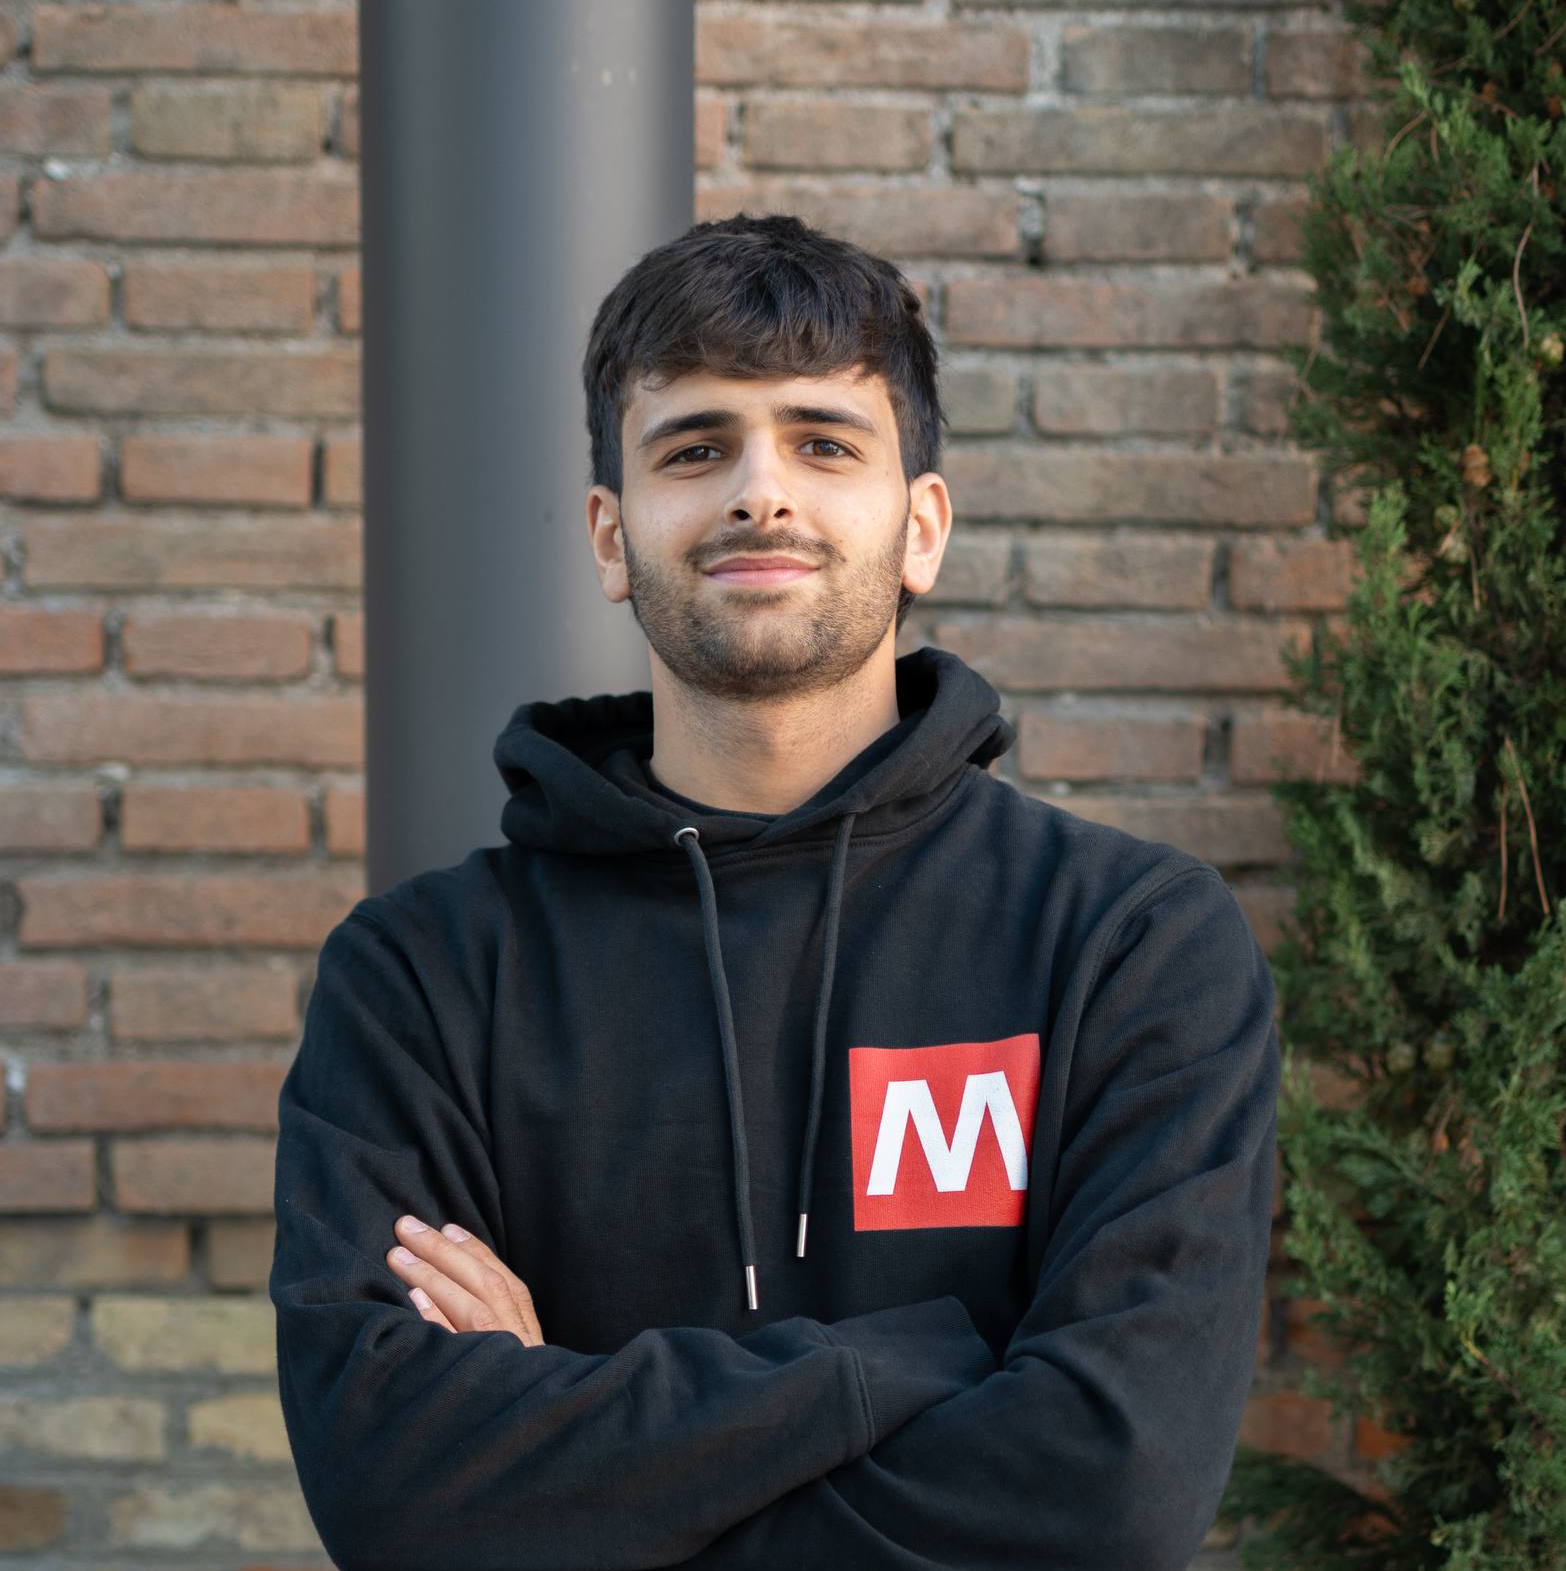
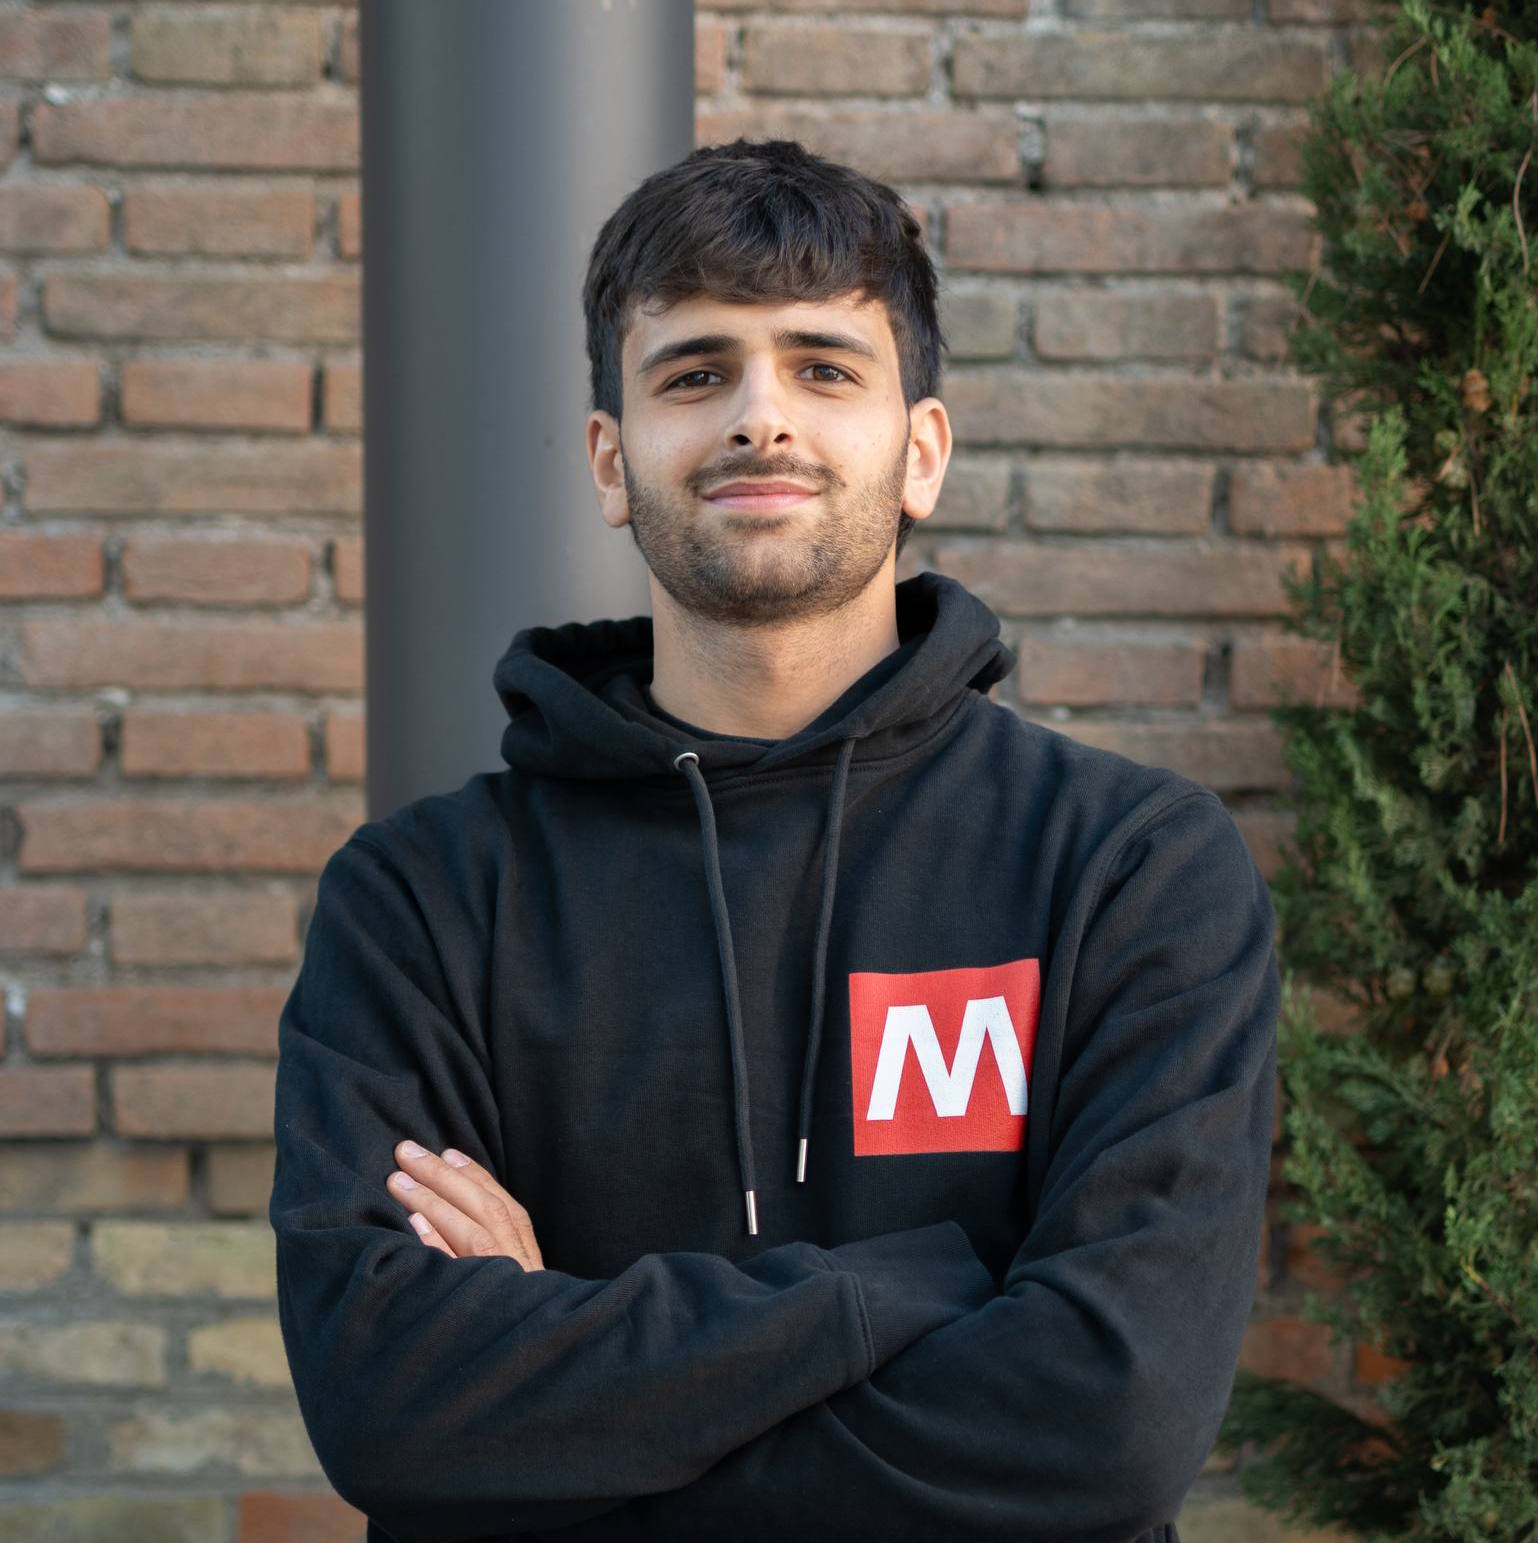
Added achievements and fixed PFPs

diff --git a/components/CompTeamAchievement.vue b/components/CompTeamAchievement.vue
@@ -1,0 +1,151 @@
+<script>
+export default {
+    props: [ "isFirst", "isLast", "achObj" ]
+}
+</script>
+
+<template>
+    <div :class="['sep-line', 'sep-dashed', isFirst ? 'sep-first-line' : '' ]"></div>
+    <div class="ach-container">
+        <div class="ach-first-part">
+            <div class="achievement-type-bg" v-if="achObj.type === 'competition'">
+                <NuxtImg src="computer-logo.png" class="achievement-type-img"></NuxtImg>
+            </div>
+        </div>
+        <div class="ach-second-part">
+            <div>
+                <h3 class="achievement-title">{{ achObj.title }}</h3>
+                <p class="achievement-date">{{ achObj.timing }}</p>
+                <p class="achievement-description">{{ achObj.description }}</p>
+            </div>
+            <div class="achievement-ranking" v-if="achObj.completed === true">
+                <NuxtImg src="/icons/trophy-solid-full.svg" class="ach-cup"></NuxtImg>
+                <p class="achievement-ranking-text">{{ achObj.ranking }}</p>
+            </div>
+        </div>
+    </div>
+    <div class="ending-spacer" v-if="isLast"></div>
+</template>
+
+<style scoped>
+.ach-container {
+    width: var(--ach-container-width);
+    height: 250px;
+
+    background-color: var(--background-300);
+    border-radius: 1em;
+    box-shadow: 0 4px 5px rgba(0, 0, 0, 0.4);
+    
+    flex-shrink: 0;
+    display: flex;
+    flex-direction: column;
+    justify-content: start;
+    align-items: end;
+}
+
+.achievement-type-bg {
+    width: 3em;
+    height: 3em;
+    background-color: var(--yellow-card);
+    border-radius: 0 1em 0 1em;
+
+    display: flex;
+    justify-content: center;
+    align-items: center;
+}
+
+.achievement-type-img {
+    width: 90%;
+}
+
+.ach-first-part {
+    display: flex;
+    flex-direction: column;
+    justify-content: center;
+    align-items: center;
+
+    margin: 0;
+}
+
+.achievement-title {
+    color: white;
+    font-weight: 700;
+    font-size: 1.5em;
+    margin: 1em 0 0.5em 0;
+    text-align: center;
+}
+
+.achievement-date {
+    color: white;
+    font-weight: 300;
+    margin: -1em 0 1em 0;
+    text-align: center;
+}
+
+.achievement-description {
+    color: white;
+    text-align: center;
+}
+
+.ach-second-part {
+    height: 100%;
+    margin: -3em 0 0 0;
+    padding: 0 1em 1em 1em;
+
+    display: flex;
+    flex-direction: column;
+    justify-content: space-between;
+    align-items: center;
+    
+}
+
+.achievement-ranking {
+    width: auto;
+    height: 40px;
+    background-color: var(--background-500);
+
+    border-radius: 1.5em;
+    padding: 0 1em 0 1em;
+
+    display: flex;
+    flex-direction: row;
+    justify-content: center;
+    align-items: center;
+    gap: 1em;
+}
+
+.ach-cup {
+    height: 80%;
+}
+
+.achievement-ranking-text {
+    color: white;
+    font-weight: 900;
+    font-size: 1.15em;
+}
+
+
+
+.sep-first-line {
+    width: calc(50% - calc(var(--ach-container-width) / 2)) !important;
+}
+
+.sep-line {
+    height: 12px;
+    width: 200px;
+
+    background-color: transparent;
+    flex-shrink: 0;
+}
+
+.sep-dashed {
+    border-top: 1px dashed gray;
+}
+
+.ending-spacer {
+    width: calc(50% - calc(var(--ach-container-width) / 2));
+    background-color: transparent;
+    height: 1px;
+    flex-shrink: 0;
+}
+</style>

diff --git a/pages/index.vue b/pages/index.vue
@@ -1,8 +1,8 @@
 <template>
   <section class="home-hero" id="home">
     <div class="home-heading10">
-      <h1 class="home-header11">It's not just a raspberry pi cluster</h1>
-      <p class="home-caption10">It's like a fruit salad.</p>
+      <h1 class="home-header11">It's not "<i>just</i>" a Raspberry Pi cluster</h1>
+      <p class="home-caption10"><b>It's like a <mark>fruit salad</mark></b></p>
     </div>
     <div class="home-buttons">
       <a
@@ -22,27 +22,30 @@
           <h2 class="home-header13">What we are aiming for?</h2>
           <span class="home-description10"
             >The goal of our project is to build a versatile and scalable infrastructure
-            that can be used for various types of studies and analyses.</span
-          >
+            that can be used for various types of studies and analyses</span>
           <ul class="home-bullet-list">
-            <li>Explore the world of High Performance Computing</li>
             <li>
-              Developing a flexible topology, adaptable to different needs and contexts.
+              Explore the world of High Performance Computing
+            </li>
+            <li>
+              Developing a flexible topology, adaptable to different needs and contexts
             </li>
             <li>
               Implementing distributed and parallel algorithms for scientific computing
-              and deep learning.
+              and Deep Learning
             </li>
             <li>
-              Analyzing the network performance and hardware resources of the nodes.
+              Analyzing the network performance and hardware resources of the nodes
             </li>
-            <li>Providing a platform for future research and experimentation.</li>
+            <li>
+              Providing a platform for future research and experimentation
+            </li>
           </ul>
         </div>
       </div>
       <div class="home-description11">
         <span class="home-paragraph1">
-          We are a team of computer science students passionate about building and
+          We are a team of Computer Science students passionate about building and
           optimizing fast, distributed, and juicy architectures.
         </span>
         <span class="home-paragraph2">

diff --git a/pages/competitive-team.vue b/pages/competitive-team.vue
@@ -1,16 +1,13 @@
 <script>
 import CompTeamMember from '~/components/CompTeamMember.vue';
-import team_comp_data from '~/assets/hpc-team.json'
+import CompTeamTimeline from '~/components/CompTeamTimeline.vue';
+import team_comp_data from '~/assets/hpc-team.json';
 
 export default {
     data: function() {
         return {
             team_comp_data: team_comp_data
         }
-    },
-
-    mounted() {
-        console.log(this.team_comp_data);
     }
 }
 </script>
@@ -40,6 +37,13 @@ export default {
         :memberObj="member" 
         :memberIndex="index"></CompTeamMember>
     </div>
+    <div class="title-heading">
+      <h2 class="section-title">Our achievements</h2>
+      <span class="title-paragraph-low">
+        Although we haven't participated in many competitions (<i>yet!</i>), we strive to compete in more, to have an <mark>ever-growing team</mark> and spread the marvels of HPC. Are you curious about how far we got? Just have a look below
+      </span>
+    </div>
+	<CompTeamTimeline></CompTeamTimeline>
   </section>
 </template>
 
@@ -49,7 +53,8 @@ export default {
 }
 
 .title-header-title {
-    font-size: 4em !important;
+    font-size: 2.5em !important;
+    font-weight: 600;
     margin: 0 0 0.5em 0;
 }
 
@@ -67,7 +72,7 @@ export default {
 .title-paragraph {
     font-size: 1.75em !important;
     margin: 0;
-    line-height: 2em;
+    line-height: 1.5em;
 }
 
 .title-heading {
@@ -81,12 +86,19 @@ export default {
 .team-members-showcase {
     width: 100%;
     height: fit-content;
-    margin: 5em 0 0 0;
+    margin: 7em 0 8em 0;
 
     display: flex;
     flex-direction: column;
     justify-content: start;
     align-items: center;
     gap: 6em;
+}
+
+.section-title {
+    font-size: 3em;
+	font-weight: 600;
+	color: white;
+	margin: 0 0 0.5em 0;
 }
 </style>

diff --git a/components/CompTeamTimeline.vue b/components/CompTeamTimeline.vue
@@ -1,0 +1,37 @@
+<script>
+import CompTeamAchievement from "~/components/CompTeamAchievement.vue";
+import achievements from '~/assets/achievements.json';
+
+export default {
+    data: function() {
+        return {
+            achievements: achievements
+        }
+    }
+}
+</script>
+
+<template>
+    <div class="achievements-container">
+        <CompTeamAchievement v-for="[idx, item] in achievements.entries()"
+        :isFirst="idx === 0" :isLast="idx === (achievements.length - 1)" :achObj="item"></CompTeamAchievement>
+    </div>
+</template>
+
+<style scoped>
+.achievements-container {
+    width: 100%;
+    height: max-content;
+
+    margin: 2em 0 4em 0;
+    padding: 1em 0 1em 0;
+
+    display: flex;
+    flex-direction: row;
+    justify-content: start;
+    align-items: center;
+
+    overflow-x: scroll;
+    overflow-y: hidden;
+}
+</style>

diff --git a/assets/css/style.css b/assets/css/style.css
@@ -59,6 +59,7 @@
   --space-oneandhalfunits: 24px;
   --space-oneunit: 16px;
   --space-halfunit: 8px;
+  --ach-container-width: 350px;
 }
 
 body {
@@ -71,8 +72,7 @@ mark {
   margin: 0;
 
   border-radius: 0.1em;
-  font-weight: 500;
-  color: black;
+  color: white;
 }
 
 .title-header {

diff --git a/assets/css/home.css b/assets/css/home.css
@@ -30,7 +30,7 @@
 
 .home-caption10 {
     color: rgb(255, 255, 255);
-    font-size: 1.5em;
+    font-size: 1.75em;
     max-width: 800px;
     text-align: center;
     line-height: 36px;

diff --git a/components/CompTeamMember.vue b/components/CompTeamMember.vue
@@ -9,10 +9,6 @@ export default {
         }
     },
 
-    mounted() {
-        console.log(this.memberObj.gh_handle);
-    },
-
     props: [ "memberObj", "memberIndex" ]
 }
 </script>

diff --git a/components/SeparatingLine.vue b/components/SeparatingLine.vue
@@ -1,0 +1,13 @@
+<script>
+export default {
+    props: [ "lineType", "lineLentgh" ]
+}
+</script>
+
+<template>
+    
+</template>
+
+<style scoped>
+
+</style>
